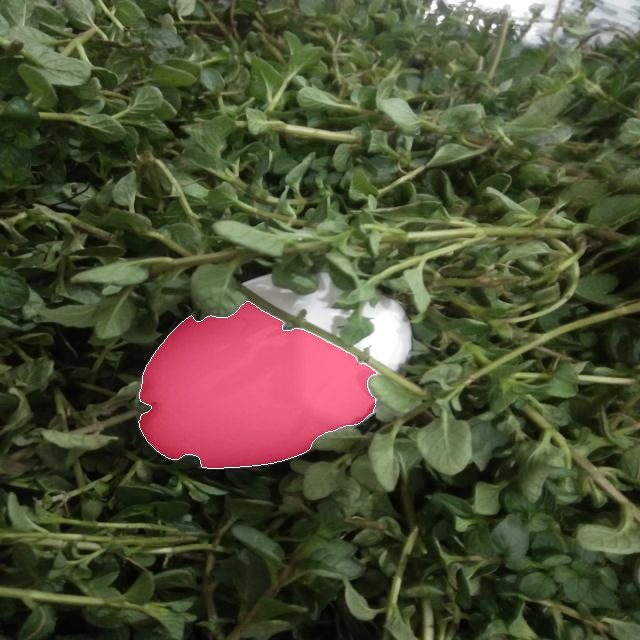
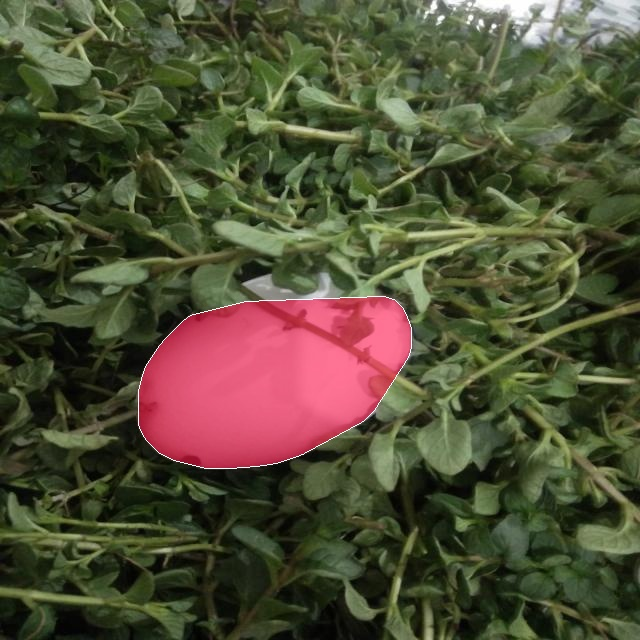
Task 1: SAM pseudo-GT for all 110 images (auto selection + 15 manual box-prompt corrections)

diff --git a/scripts/01c_manual_fixes.py b/scripts/01c_manual_fixes.py
@@ -1,0 +1,50 @@
+"""Task 1 stage C: apply scripts/sam_manual_fixes.json (box-prompted SAM) on top of stage B output.
+Run order: 01_run_sam.py -> 01b_select_eggs.py -> 01c_manual_fixes.py (01b rewrites the PNGs, 01c patches them)."""
+import sys, os, json
+sys.path.insert(0, os.path.join(os.path.dirname(__file__), "..", "src"))
+import cv2, numpy as np, torch
+from segment_anything import sam_model_registry, SamPredictor
+from eggseg import data, sam_seg, viz
+
+torch.set_num_threads(4)
+fixes = {k: v for k, v in json.load(open("scripts/sam_manual_fixes.json")).items() if not k.startswith("_")}
+sam = sam_model_registry["vit_b"](checkpoint=os.path.join(data.ROOT, "weights", "sam_b.pt")).eval()
+pred = SamPredictor(sam)
+by = {data.stem(p): p for p in data.list_images()}
+
+for num, fx in fixes.items():
+    n = "not_damaged_" + num
+    rgb = data.load_rgb(by[n])
+    inst = data.load_instance_mask(n)
+    masks = [inst == i for i in np.unique(inst) if i]           # automatic eggs from stage B
+    if "replace" in fx:
+        masks = []
+    for x, y in fx.get("remove", []):
+        masks = [m for m in masks if not m[y, x]]
+    boxes = fx.get("replace", []) + fx.get("add", [])
+    if boxes:
+        pred.set_image(rgb)
+        new = []
+        for b in boxes:
+            pts = np.array(fx.get("points", [])).reshape(-1, 2)
+            m, sc, _ = pred.predict(point_coords=pts if len(pts) else None,
+                                    point_labels=np.ones(len(pts), int) if len(pts) else None,
+                                    box=np.array(b), multimask_output=False)
+            c = sam_seg._clean(m[0])
+            if c is not None and fx.get("hull"):      # eggs are convex: fill in what stems/bars hide
+                h = cv2.convexHull(np.argwhere(c)[:, ::-1].astype(np.int32))
+                c = cv2.fillConvexPoly(np.zeros(c.shape, np.uint8), h, 1).astype(bool)
+            if c is not None:
+                new.append(c)
+        if fx.get("union") and new:                       # parts of one egg -> one mask (then hull)
+            u = np.any(new, axis=0)
+            if fx.get("hull"):
+                h = cv2.convexHull(np.argwhere(u)[:, ::-1].astype(np.int32))
+                u = cv2.fillConvexPoly(np.zeros(u.shape, np.uint8), h, 1).astype(bool)
+            new = [u]
+        masks += new
+    masks.sort(key=lambda m: -m.sum())
+    out = sam_seg.to_instance_png(masks, rgb.shape[:2])
+    cv2.imwrite(os.path.join(data.SAM_DIR, n + ".png"), out)
+    cv2.imwrite(f"outputs/sam_overlays/{n}.jpg", cv2.cvtColor(viz.overlay(rgb, out), cv2.COLOR_RGB2BGR))
+    print(n, "->", len(masks), "eggs", flush=True)

diff --git a/src/eggseg/sam_seg.py b/src/eggseg/sam_seg.py
@@ -32,11 +32,12 @@ def load_raw(path):
 
 
 # ---------------- Stage B: egg-likeness filter ----------------
-P = dict(min_area=0.004, max_area=0.75,   # fraction of image area
+P = dict(min_area=0.012, max_area=0.5,   # fraction of image area
          min_solidity=0.93,               # area / convex-hull area  (eggs are convex)
          min_ellipse_iou=0.88,            # how well a fitted ellipse explains the mask
          max_axis_ratio=2.0,              # eggs are not long thin things
          max_sat=60, min_val=100,         # eggs here are white/cream: low mean HSV-S, high mean V (0-255)
+         border_min_area=0.03, border_min_ellipse_iou=0.93,   # border-touching masks must be big and very egg-like
          nms_iou=0.3, contain=0.8)
 
 
@@ -86,6 +87,9 @@ def select_eggs(masks, iou_pred, stab, p=P, rgb=None):
             continue
         if hsv is not None and (hsv[..., 1][m].mean() > p["max_sat"] or hsv[..., 2][m].mean() < p["min_val"]):
             continue                          # skin / leaves / dark objects
+        touches = m[0].any() or m[-1].any() or m[:, 0].any() or m[:, -1].any()
+        if touches and (a < p["border_min_area"] or eiou < p["border_min_ellipse_iou"]):
+            continue                          # slivers of objects cut by the image border
         cands.append((eiou * sol * q, m))
     cands.sort(key=lambda t: -t[0])
     keep = []

diff --git a/scripts/01d_review_sheets.py b/scripts/01d_review_sheets.py
@@ -1,0 +1,16 @@
+"""Task 1 stage D: build review contact sheets + egg counts from the FINAL masks (after manual fixes)."""
+import sys, os, json
+sys.path.insert(0, os.path.join(os.path.dirname(__file__), "..", "src"))
+import cv2, numpy as np
+from eggseg import data, viz
+
+paths, tiles, counts = data.list_images(), [], {}
+for p in paths:
+    n = data.stem(p); inst = data.load_instance_mask(n)
+    counts[n] = int(len([i for i in np.unique(inst) if i]))
+    tiles.append(viz.label(viz.overlay(data.load_rgb(p), inst), f"{n.replace('not_damaged_','')}: {counts[n]}"))
+json.dump(counts, open("outputs/sam_counts.json", "w"), indent=1)
+for k in range(0, len(tiles), 20):
+    cv2.imwrite(f"outputs/sam_review_{k // 20}.jpg", cv2.cvtColor(viz.sheet(tiles[k:k + 20], 5, 256), cv2.COLOR_RGB2BGR))
+v = np.array(list(counts.values()))
+print("eggs/image:", {int(k): int((v == k).sum()) for k in np.unique(v)}, " total eggs:", int(v.sum()))
